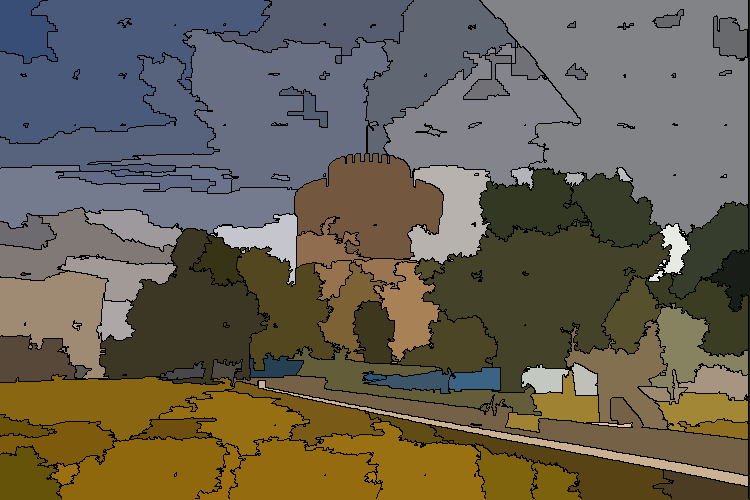
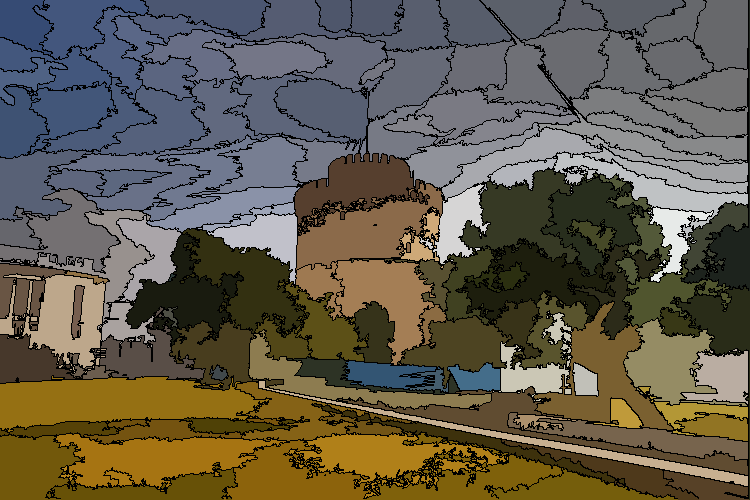
fixed distance function

diff --git a/ExtraCredit/EC4/snic.py b/ExtraCredit/EC4/snic.py
@@ -39,6 +39,7 @@ def updateCluster(clusters, index, element):
     cluster[1] = ((cluster[1] * (elements-1)) + element[1])  / cluster[5]
     for i in range(2,5):
         cluster[i] = ((cluster[i] * (elements-1)) + element[i]) / cluster[5]
+    return clusters[index]
 
 def squaredDifference(a,b):
     total = 0
@@ -84,13 +85,12 @@ def snic(image, compactnessFactor):
         distance, k, colorR, colorG, colorB, x, y = target
         if labelMap[x][y] == 0: 
             labelMap[x][y] = k           
-            updateCluster(clusters, k-1, [x,y,colorR,colorG,colorB])
+            old = updateCluster(clusters, k-1, [x,y,colorR,colorG,colorB])
             for move in directions:
                 moveX = x + move[0]
                 moveY = y + move[1]
                 if moveX >= 0 and moveX < xsize and moveY >= 0 and moveY < ysize:
                     if labelMap[moveX][moveY] == 0:
-                        old = [x,y, colorR,colorG, colorB]
                         targetColor = image[moveX,moveY]
                         target = [moveX, moveY, targetColor[0], targetColor[1],targetColor[2]]
                         d = elementDistance(target,old,s,m)
